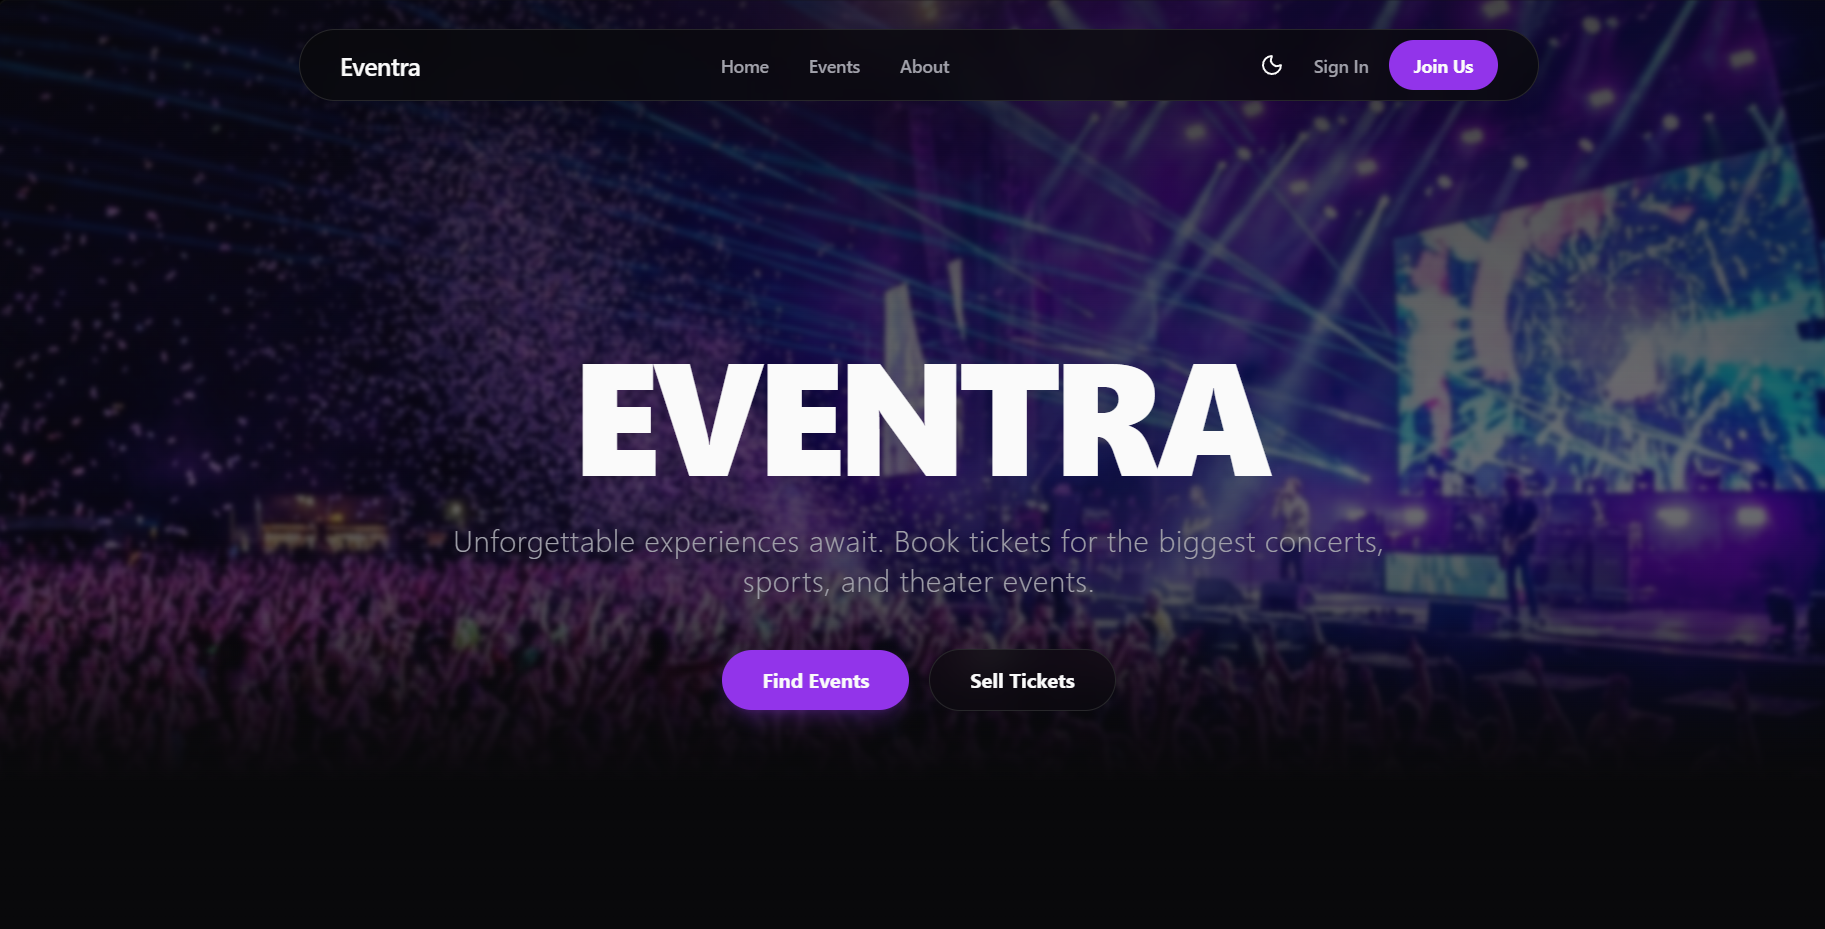
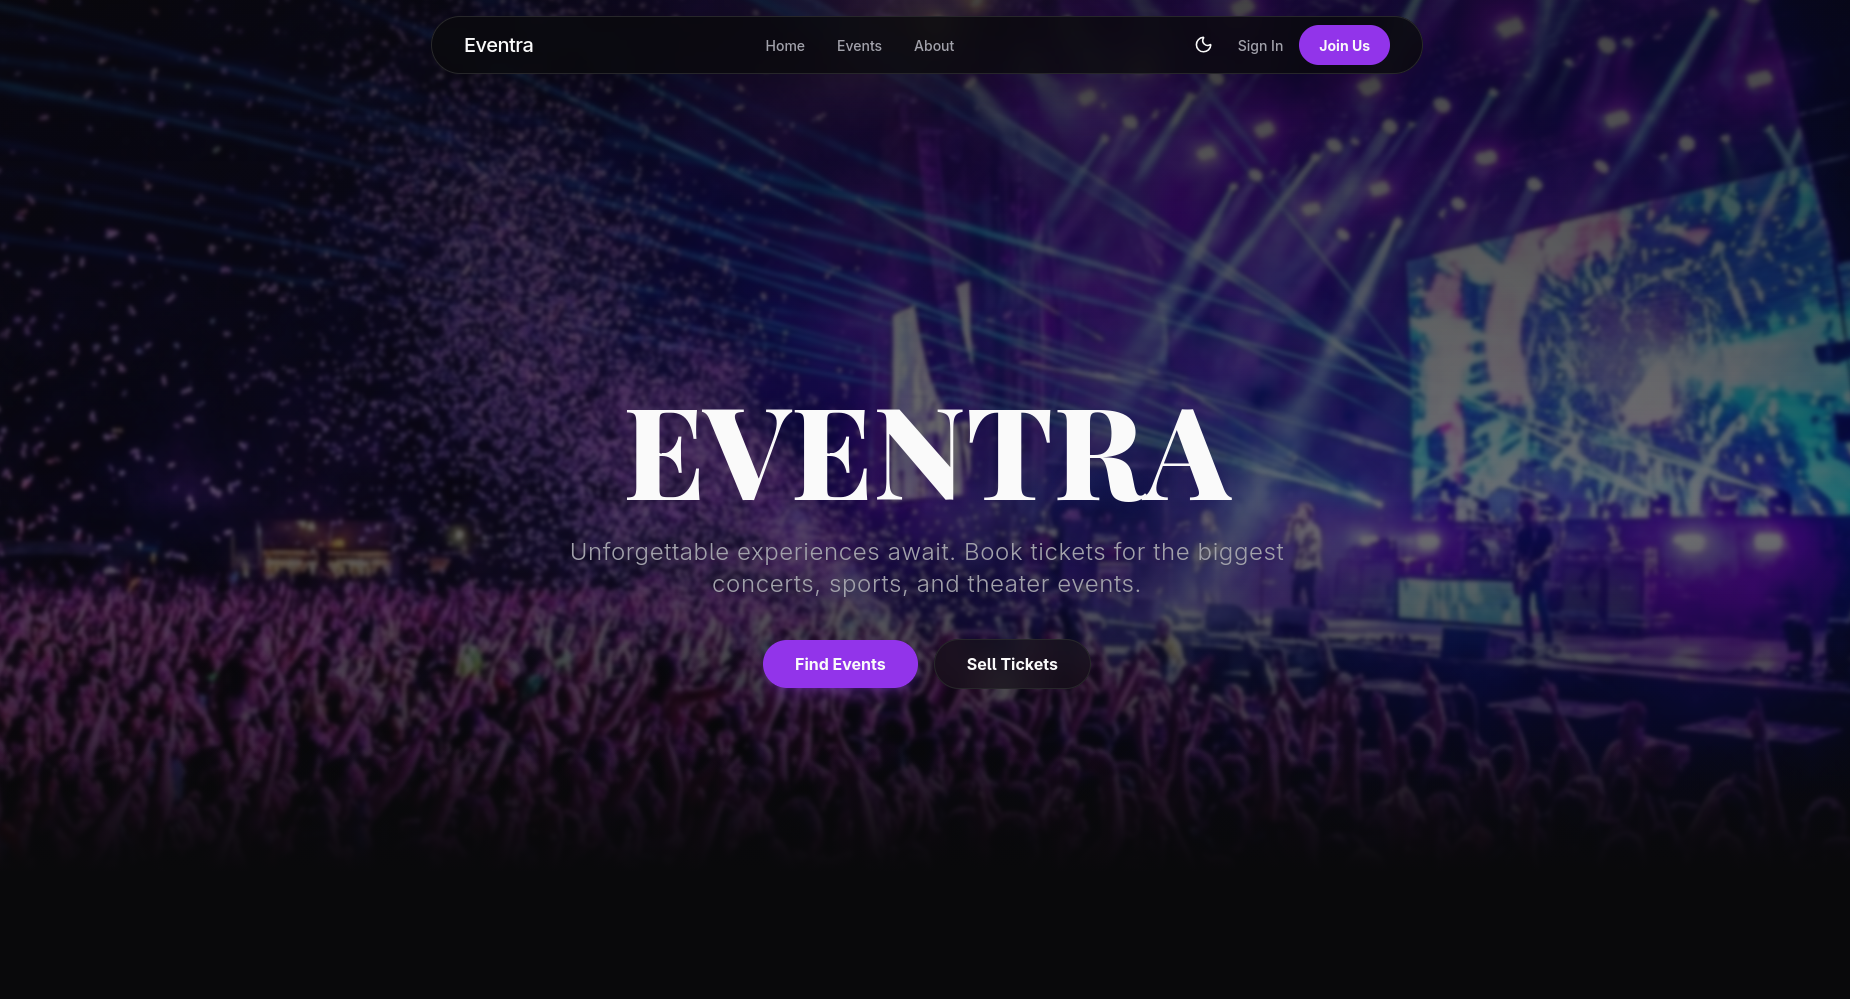
feat(landing): udpated projects, removed github tilt effect in stats and updated skills

diff --git a/src/components/Landing.jsx b/src/components/Landing.jsx
@@ -1,6 +1,5 @@
 "use client";
 import { useState, useEffect, useRef } from "react";
-import { motion, useMotionValue, useTransform } from "framer-motion";
 import { ArrowRight, ChevronLeft, ChevronRight, Cloud } from "lucide-react";
 import {
   SiJavascript,
@@ -22,47 +21,11 @@ import {
   SiAmazonwebservices,
   SiNginx,
   SiSwagger,
-  SiDocker
+  SiDocker,
+  SiJest
 } from "react-icons/si";
-import {GitHubCalendar} from "react-github-calendar";
+import { GitHubCalendar } from "react-github-calendar";
 import "../styles/landing.css";
-
-const TiltCard = ({ children, className, style }) => {
-  const x = useMotionValue(0);
-  const y = useMotionValue(0);
-
-  const rotateX = useTransform(y, [-100, 100], [15, -15]);
-  const rotateY = useTransform(x, [-100, 100], [-15, 15]);
-
-  function handleMouse(event) {
-    const rect = event.currentTarget.getBoundingClientRect();
-    const centerX = rect.left + rect.width / 2;
-    const centerY = rect.top + rect.height / 2;
-    x.set(event.clientX - centerX);
-    y.set(event.clientY - centerY);
-  }
-
-  function handleMouseLeave() {
-    x.set(0);
-    y.set(0);
-  }
-
-  return (
-    <motion.div
-      style={{
-        perspective: 1000,
-        rotateX,
-        rotateY,
-        ...style,
-      }}
-      onMouseMove={handleMouse}
-      onMouseLeave={handleMouseLeave}
-      className={className}
-    >
-      {children}
-    </motion.div>
-  );
-};
 
 export default function LandingPage() {
   const [isNavVisible, setIsNavVisible] = useState(true);
@@ -96,6 +59,22 @@ export default function LandingPage() {
     },
     {
       id: 2,
+      title: "CardKeeper",
+      description: "A web application for managing and securely storing card information.",
+      tags: ["NestJs", "React", "Node", "Postgres", "Redis"],
+      url: "https://cardkeeper.gharti-sudarshan.com.np",
+      src: "/CardKeeper.png",
+    },
+    {
+      id: 3,
+      title: "Serviq",
+      description: "A inventory management system for mechanical businesses.",
+      tags: ["NextJs", ".NET", "Postgres"],
+      url: "https://serviq.gharti-sudarshan.com.np/",
+      src: "/Serviq.png",
+    },
+    {
+      id: 4,
       title: "Eventra",
       description: "A ticket selling platform based on Nepal",
       tags: ["NextJs", "TailWind", "Express", "MongoDB"],
@@ -103,7 +82,7 @@ export default function LandingPage() {
       src: "/Eventra.png",
     },
     {
-      id: 3,
+      id: 5,
       title: "Vanis",
       description: "A modern web app for easy file sharing",
       tags: ["NextJs", "TailWind", "Express", "MongoDB"],
@@ -111,45 +90,21 @@ export default function LandingPage() {
       src: "/Vanis.png",
     },
     {
-      id: 4,
-      title: "Ecom",
+      id: 6,
+      title: "Supplements & Powders",
       description: "A comprehensive e-commerce application tailored for affilated marketing.",
       tags: ["NextJs", "TailWind", "Express", "MongoDB", "Redis"],
       url: "https://supplementsandpowders.com/",
       src: "/Ecom.png",
     },
     {
-      id: 5,
+      id: 7,
       title: "Wifi DeAuther",
       description: "A shell script for conducting WiFi deauthentication attacks for security testing.",
       tags: ["Shell"],
       url: "https://github.com/lynx-fx/Bash-for-deauth-attack-on-wifi",
       src: "/deauther.png",
     },
-    // {
-    //   id: 6,
-    //   title: "LiveChat",
-    //   description: "A real-time live chat application using WebSocket, React, and MongoDB.",
-    //   tags: ["Express", "React", "Node", "MongoDB", "WebSocket"],
-    //   url: "https://livechat-lynx.netlify.app/",
-    //   src: "/LiveChat.png",
-    // },
-    // {
-    //   id: 7,
-    //   title: "CardKeeper",
-    //   description: "A web application for managing and securely storing card information.",
-    //   tags: ["Express", "React", "Node", "MongoDB"],
-    //   url: "https://cardkeeper-lynx.netlify.app/",
-    //   src: "/CardKeeper.png",
-    // },
-    // {
-    //   id: 8,
-    //   title: "TimeNest",
-    //   description: "A productivity tool for time management and organizing daily tasks.",
-    //   tags: ["Express", "React", "Node", "MongoDB"],
-    //   url: "https://timenest-lynx.netlify.app/",
-    //   src: "/TimeNest.png",
-    // },
   ];
 
   const technologies = [
@@ -231,15 +186,15 @@ export default function LandingPage() {
       icon: SiRedis,
       color: "blue",
     },
-    {
-      name: "Cloud Deployment",
-      description: "VPS, Netlify, Vercel",
-      icon: Cloud,
-      color: "blue-light",
-    },
+    // {
+    //   name: "Cloud Deployment",
+    //   description: "VPS, Netlify, Vercel",
+    //   icon: Cloud,
+    //   color: "blue-light",
+    // },
     {
       name: "AWS",
-      description: "EC2, RDS, S3, IAM, Route 53",
+      description: "EC2, S3",
       icon: SiAmazonwebservices,
       color: "orange",
     },
@@ -260,6 +215,12 @@ export default function LandingPage() {
       description: "Containerization",
       icon: SiDocker,
       color: "blue",
+    },
+    {
+      name: "Jest",
+      description: "JavaScript Testing Framework",
+      icon: SiJest,
+      color: "red",
     },
   ];
 
@@ -500,16 +461,14 @@ export default function LandingPage() {
         {/* Technologies Section */}
         <div ref={techRef} className="technologies-section" id="about">
           <h2
-            className={`section-title ${
-              visibleSections.about ? "visible" : ""
-            }`}
+            className={`section-title ${visibleSections.about ? "visible" : ""
+              }`}
           >
             Current technologies
           </h2>
           <p
-            className={`section-description ${
-              visibleSections.about ? "visible" : ""
-            }`}
+            className={`section-description ${visibleSections.about ? "visible" : ""
+              }`}
             style={{ animationDelay: "0.4s" }}
           >
             I leverage modern technologies to create innovative and efficient
@@ -521,9 +480,8 @@ export default function LandingPage() {
               return (
                 <div
                   key={index}
-                  className={`tech-card tech-card-${tech.color} ${
-                    visibleSections.about ? "visible" : ""
-                  }`}
+                  className={`tech-card tech-card-${tech.color} ${visibleSections.about ? "visible" : ""
+                    }`}
                   style={{ animationDelay: `${0.6 + index * 0.15}s` }}
                 >
                   <div className="tech-card-content">
@@ -542,16 +500,14 @@ export default function LandingPage() {
           {/* Portfolio Section */}
           <div
             ref={projectsRef}
-            className={`portfolio-section ${
-              visibleSections.work ? "visible" : ""
-            }`}
+            className={`portfolio-section ${visibleSections.work ? "visible" : ""
+              }`}
             id="work"
           >
             <div className="portfolio-header">
               <h2
-                className={`section-title ${
-                  visibleSections.about ? "visible" : ""
-                }`}
+                className={`section-title ${visibleSections.about ? "visible" : ""
+                  }`}
               >
                 My Projects
               </h2>
@@ -587,9 +543,8 @@ export default function LandingPage() {
                 {visibleProjects.map((project, index) => (
                   <div
                     key={`${project.id}-${currentProjectIndex}-${index}`}
-                    className={`project-card ${
-                      isTransitioning ? "project-transitioning" : ""
-                    }`}
+                    className={`project-card ${isTransitioning ? "project-transitioning" : ""
+                      }`}
                     style={{ animationDelay: `${index * 0.2}s` }}
                   >
                     <div className="project-mockup">
@@ -626,9 +581,8 @@ export default function LandingPage() {
               {projects.map((_, index) => (
                 <button
                   key={index}
-                  className={`pagination-dot ${
-                    index === currentProjectIndex ? "active" : ""
-                  }`}
+                  className={`pagination-dot ${index === currentProjectIndex ? "active" : ""
+                    }`}
                   onClick={() => goToProject(index)}
                   disabled={isTransitioning}
                   aria-label={`Go to project ${index + 1}`}
@@ -643,29 +597,26 @@ export default function LandingPage() {
           {/* GitHub Stats Section */}
           <div
             ref={githubRef}
-            className={`github-section ${
-              visibleSections.github ? "visible" : ""
-            }`}
+            className={`github-section ${visibleSections.github ? "visible" : ""
+              }`}
             id="github"
           >
             <h2
-              className={`section-title ${
-                visibleSections.github ? "visible" : ""
-              }`}
+              className={`section-title ${visibleSections.github ? "visible" : ""
+                }`}
             >
               GitHub Activity
             </h2>
             <p
-              className={`section-description ${
-                visibleSections.github ? "visible" : ""
-              }`}
+              className={`section-description ${visibleSections.github ? "visible" : ""
+                }`}
               style={{ animationDelay: "0.4s" }}
             >
               Tracking my code journey, contributions, and project statistics in
               real-time.
             </p>
 
-            <TiltCard
+            <div
               className="github-calendar-container"
               style={{ animationDelay: "1s" }}
             >
@@ -679,16 +630,15 @@ export default function LandingPage() {
                   dark: ["#161b22", "#0e4429", "#006d32", "#26a641", "#39d353"],
                 }}
               />
-            </TiltCard>
+            </div>
           </div>
         </div>
       </div>
       {/* Contact Section */}
       <div ref={contactRef} className="contact-section">
         <div
-          className={`contact-content ${
-            visibleSections.contact ? "visible" : ""
-          }`}
+          className={`contact-content ${visibleSections.contact ? "visible" : ""
+            }`}
           style={{ animationDelay: "0.4s" }}
         >
           <h2 className="contact-title">
@@ -740,17 +690,17 @@ export default function LandingPage() {
               <ul className="footer-links">
                 {projects
                   ? projects.map((project) => (
-                      <li>
-                        <a
-                          href={project.url}
-                          target="_blank"
-                          className="footer-link"
-                          rel="noreferrer"
-                        >
-                          {project.title}
-                        </a>
-                      </li>
-                    ))
+                    <li>
+                      <a
+                        href={project.url}
+                        target="_blank"
+                        className="footer-link"
+                        rel="noreferrer"
+                      >
+                        {project.title}
+                      </a>
+                    </li>
+                  ))
                   : ""}
               </ul>
             </div>